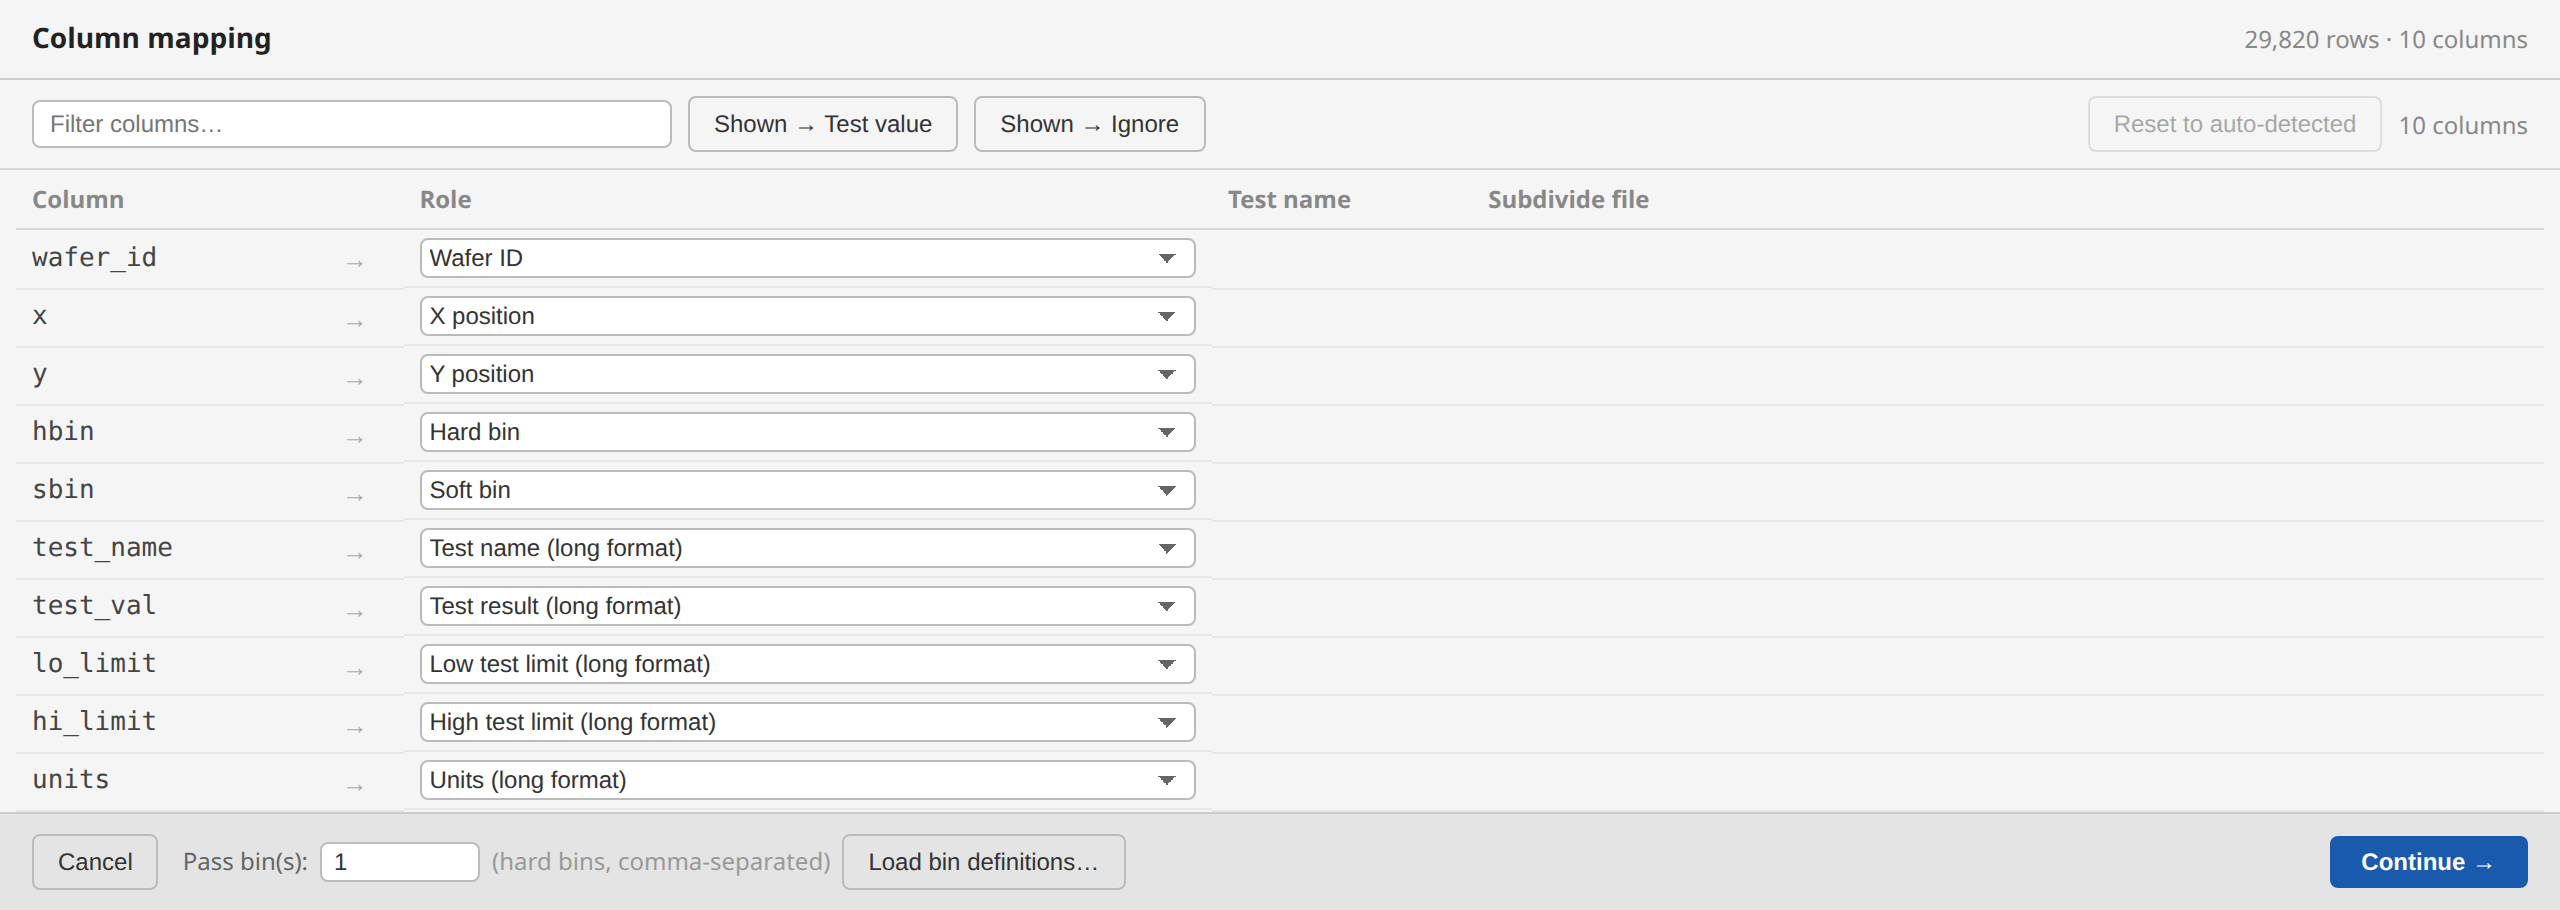
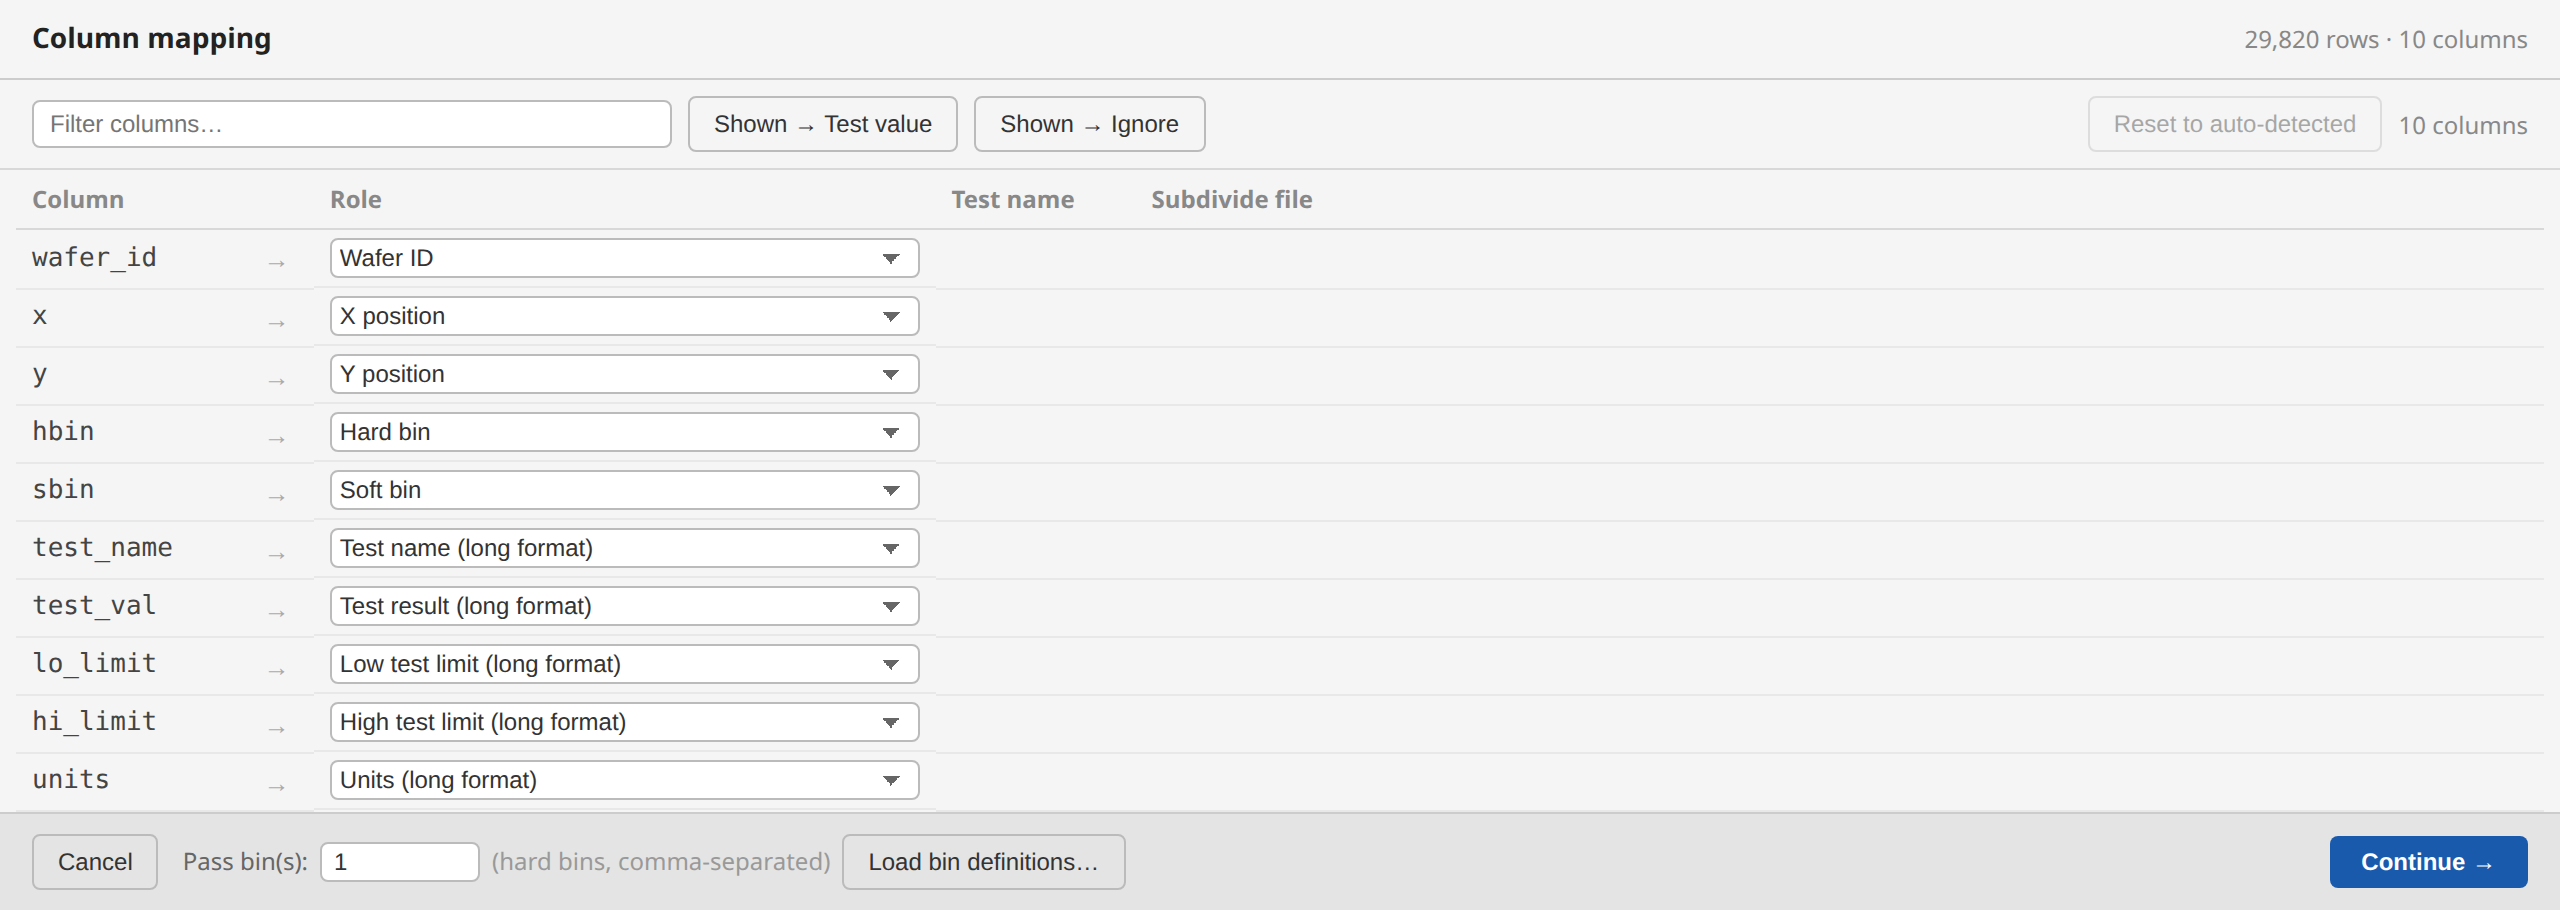
Document bzip2 and decimal-comma CSV; show test limits as written
The user guide and README list .bz2 files, decimal-comma CSV and the bzip2 dependency, and the map, gallery and column-mapping screenshots are recaptured against the current wafermap. The test selector and the limits-mismatch message show a float32 limit in its shortest exact form using wafermap's fmtExact.

diff --git a/src/testSelectorUI.ts b/src/testSelectorUI.ts
@@ -2,7 +2,7 @@ import type { TestDef, TestOverride } from './types';
 import { createRangeSelection } from './listSelection';
 import { webValueBudgetWarning } from './lib';
 import { ICONS } from '@wafertools/wafermap/render';
-import { DERIVED_MARK, DERIVED_KEY } from '@wafertools/wafermap';
+import { DERIVED_MARK, DERIVED_KEY, fmtExact } from '@wafertools/wafermap';
 import { attachTooltip } from './tooltip';
 import { buildToggleGroup } from './toggleGroup';
 import { makeLoadDefinitionsButton, type RecentLoadRow } from './recentDefinitionsUI';
@@ -988,8 +988,8 @@ export function showTestSelectorOverlay(
       const limitsSpan = document.createElement('span');
       limitsSpan.style.cssText = 'color:var(--text-dim);font-size:12px;flex-shrink:0;min-width:130px;text-align:right';
       const limitParts: string[] = [];
-      if (eff.loLimit != null) limitParts.push(`≥${eff.loLimit}`);
-      if (eff.hiLimit != null) limitParts.push(`≤${eff.hiLimit}`);
+      if (eff.loLimit != null) limitParts.push(`≥${fmtExact(eff.loLimit)}`);
+      if (eff.hiLimit != null) limitParts.push(`≤${fmtExact(eff.hiLimit)}`);
       if (eff.units) limitParts.push(eff.units);
       limitsSpan.textContent = limitParts.join(' ');
 

diff --git a/src/lib.ts b/src/lib.ts
@@ -7,6 +7,7 @@ import type { TestDef as WmapTestDef } from '@wafertools/wafermap';
 import type { PlotMode, DerivedTestDef } from '@wafertools/wafermap';
 import type { WaferMetadata } from '@wafertools/wafermap/renderer';
 import type { WaferConfig, DieConfig, BinDef } from '@wafertools/wafermap';
+import { fmtExact } from '@wafertools/wafermap';
 import { curatedFields, displayValue, isHiddenField } from './metadata';
 import { unitShift, shiftUnit } from './units';
 import { WCR_FLAT_SIDE, WCR_POS_X, WCR_POS_Y, WCR_UNITS, wcrCode } from './wcr';
@@ -460,8 +461,8 @@ function limitsDisagree(a: TestDef, b: TestDef): boolean {
 }
 
 function limitText(d: TestDef): string {
-  const lo = d.loLimit === undefined ? '' : String(d.loLimit);
-  const hi = d.hiLimit === undefined ? '' : String(d.hiLimit);
+  const lo = d.loLimit === undefined ? '' : fmtExact(d.loLimit);
+  const hi = d.hiLimit === undefined ? '' : fmtExact(d.hiLimit);
   return `${lo}-${hi}${d.units ? ' ' + d.units : ''}`;
 }
 

diff --git a/src/lib.test.ts b/src/lib.test.ts
@@ -1223,3 +1223,4 @@ describe('definitionsAnchorMismatch', () => {
     expect(a.names.size).toBe(0);
   });
 });
+

diff --git a/README.md b/README.md
@@ -28,7 +28,7 @@ Discussions](https://github.com/wafertools/.github/discussions).
 
 ## Features
 
-- **Open** STDF, ATDF, CSV, JSON, and Parquet wafer map files, including `.gz` and `.zip` containers
+- **Open** STDF, ATDF, CSV, JSON, and Parquet wafer map files, including `.gz`, `.bz2` and `.zip` containers
 - **Scan a folder** — point tsmap at a directory of hundreds of files (or drop the folder on the window) and it scans only their header metadata (lot ID, part type, tester, wafer count, dates) into a sortable, filterable table, so you load just the handful you actually want. Subfolders are opt-in; mixed formats scan together; a filter can be saved and reloaded
 - **Multi-wafer** — all formats support multiple wafers; renders as a gallery automatically
 - **Stats & findings** — yield, bin breakdown, ring/quadrant analysis, and spatial findings
@@ -260,6 +260,7 @@ Seven npm runtime dependencies, and no bundled UI framework or third-party chart
 - [`parquet`](https://crates.io/crates/parquet) — Parquet reader, used through its row-oriented `record` API (no `arrow` dependency, which keeps the wasm bundle small). `zstd` is enabled on native only, since its C library needs a cross-compiler toolchain the wasm build can't assume
 - [`csv`](https://crates.io/crates/csv) — CSV/TSV reader
 - [`flate2`](https://crates.io/crates/flate2) — transparent `.gz` decompression (pure-Rust backend, so it builds for wasm)
+- [`bzip2`](https://crates.io/crates/bzip2) — transparent `.bz2` decompression (pure-Rust `libbz2-rs-sys` backend, so it builds for wasm)
 - [`serde`](https://crates.io/crates/serde) · [`serde_json`](https://crates.io/crates/serde_json) · [`indexmap`](https://crates.io/crates/indexmap) — data model and JSON parsing
 - [`wasm-bindgen`](https://crates.io/crates/wasm-bindgen) · [`serde-wasm-bindgen`](https://crates.io/crates/serde-wasm-bindgen) — the browser build's bridge
 

diff --git a/docs/user-guide.md b/docs/user-guide.md
@@ -42,10 +42,11 @@ that part.
 |--------|-----------|-------|
 | STDF v4 | `.stdf`, `.std` | Binary; PTR (parametric) and FTR (functional) records; multi-wafer lots |
 | ATDF | `.atdf`, `.atd` | ASCII equivalent of STDF; same data, same features |
-| CSV | `.csv`, `.txt`, `.dat` | Tab, semicolon, and comma auto-detected; wide and long (pivot) formats |
+| CSV | `.csv`, `.txt`, `.dat` | Tab, semicolon, and comma auto-detected, and a decimal comma (`0,25`, as a European-locale export writes) in a tab- or semicolon-separated file; wide and long (pivot) formats |
 | JSON | `.json` | Flat array of die objects or nested `[{ wafer, results: [{die}] }]` |
 | Parquet | `.parquet` | Columnar, typed; wide and long (pivot) formats, same as CSV/JSON. `snappy`, `gzip`, `lz4`, and `brotli` compression on both desktop and web; `zstd` on desktop only |
 | Gzip | `.gz` | Transparent decompression — e.g. `lot.stdf.gz` |
+| Bzip2 | `.bz2` | Transparent decompression — e.g. `lot.stdf.bz2` |
 | Zip | `.zip` | All contained files extracted and loaded as a batch |
 
 STDF and ATDF are always parsed natively — never attempt to open them in a text editor
@@ -278,8 +279,8 @@ counting as one (they are the same records, binary and text) — so STDF and ATD
 together, but not with CSV, JSON or Parquet, which share one column mapping per load. When
 the scan holds more than one kind, buttons above the table choose between them; the dialog
 also tells you if a selection still mixes kinds, and stays open so you can adjust. Zip
-archives are expanded and their contents scanned individually, and `.gz` files are read
-straight through.
+archives are expanded and their contents scanned individually, and `.gz` and `.bz2` files are
+read straight through.
 
 ![The file filter after a mixed scan — the Show buttons offer All, STDF/ATDF and CSV, opened on the most common kind](images/file-filter-kinds.png)
 

diff --git a/CHANGELOG.md b/CHANGELOG.md
@@ -30,6 +30,9 @@ technical record, including internal changes.
 - **The web build holds less memory unpacking a compressed file.** A gzip file is unpacked into a buffer of its stated size rather than
   one grown by doubling, and the compressed copy is freed before the parse: a 185 MB `.stdf.gz` of a 670 MB lot peaks at the same
   1.5 GB as the plain file rather than 2.2 GB.
+- **Test limits read as they were written.** An STDF file stores limits as 32-bit floats, so a limit of 1.6 arrived as
+  1.600000023841858. The test selector and the limit-mismatch message show such a limit in its shortest exact form (`1.6`);
+  pass/fail judgement and saved definitions keep the exact stored value.
 - **A CSV test column that is not numbers is reported.** When cells in a column mapped as a test do not read as numbers, the load
   logs a `values-not-numeric` warning naming the column and how many cells were skipped, as a Parquet load does.
 
